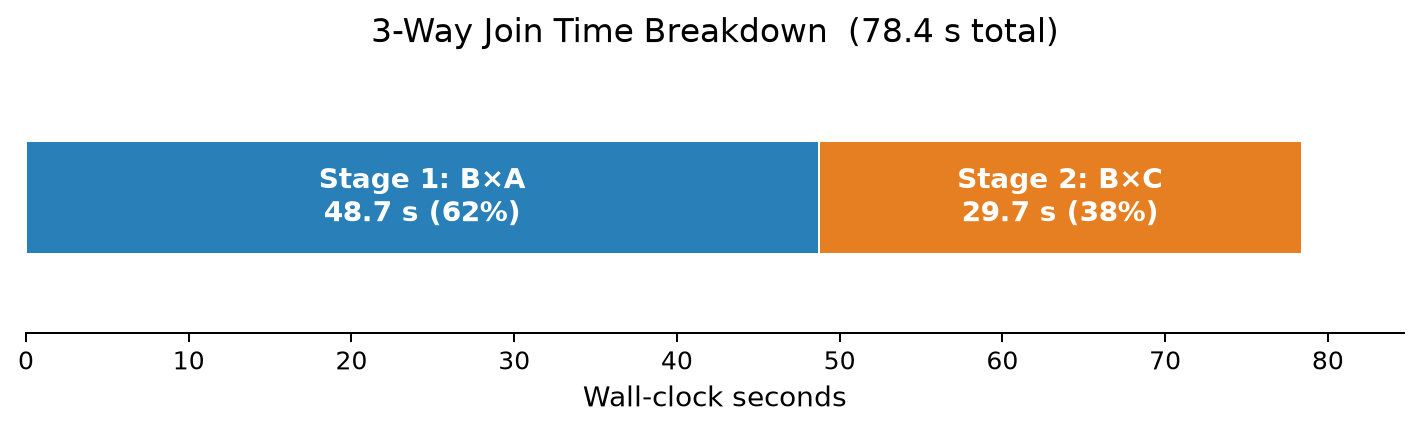
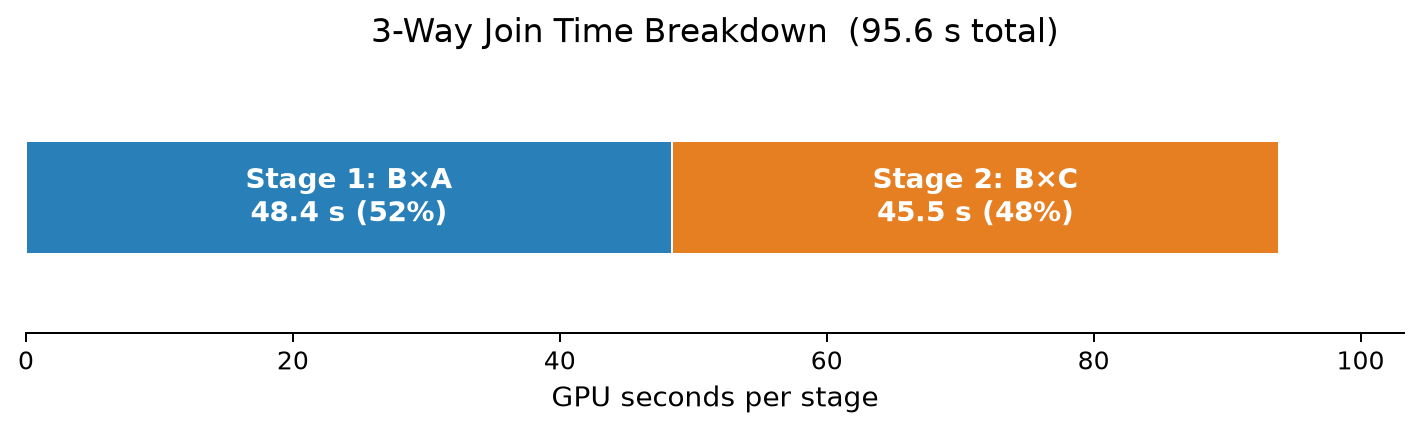
3-way plots on corrected numbers; add measured-vs-estimated-stock comparison
Query plan and time bar regenerate from the fixed run (48.4 + 45.5
GPU, 95.6 s wall, 991,911 triples). New figure compares the measured
staged join against two stock-vLLM estimates, arithmetic from
committed measurements only, both labeled estimated and never run:
request per pair grouped by B with prefix caching ~134 s (fresh
7.025M at the 2-way stock's measured 70.8k tok/s fresh rate, paged
reads, host ingestion, per-request fixed), and no prefix reuse ~923
s (80.33M full-prompt tokens through the fitted T_pre). Estimated
bars are gray and hatched; stage colors validated for
color-blindness separation.

Claude-Session: https://claude.ai/code/session_01CmQMk7TzKCiNyxUKHPVyYT

diff --git a/results/engine/join_plots.py b/results/engine/join_plots.py
@@ -63,7 +63,7 @@ def nway_query_plan():
     edge(3.5, 2.95, 3.5, 3.75)
     node(3.5, 4.2,
          f"Drop B with 0 matches\nrun each survivor once\n"
-         f"{survivors}/{n_b} B remain, keep KV",
+         f"{survivors}/{n_b} B remain, prefix KV cached",
          "#2c3e50", fontsize=9)
     time_label(5.3, 4.4, f"~0 s")
     time_label(5.3, 4.0,
@@ -73,7 +73,8 @@ def nway_query_plan():
     edge(3.5, 4.65, 5.0, 5.45)
     edge(8.0, 0.95, 5.0, 5.45)
     node(5.0, 5.9,
-         f"Packed Join\nB × C  (reuse KV)\n{r['stage2_pairs']:,} pairs",
+         f"Packed Join\nB × C  (reads cached KV)\n"
+         f"{r['stage2_pairs']:,} pairs",
          "#e67e22")
     time_label(6.9, 5.9, f"{s2:.1f} s")
 
@@ -136,8 +137,96 @@ def nway_time_bar():
     print(f"  join_nway3_time.png  ({s1:.1f} + {s2:.1f} = {total:.1f} s)")
 
 
+def nway_vs_stock():
+    """Measured staged join against two stock-vLLM estimates.
+
+    Both stock numbers are arithmetic from committed measurements -
+    never run. Submission strategy for both: one request per
+    (anchor, partner) pair, grouped by B document.
+
+    Estimate 1 - prefix caching on (all 100 B prefixes fit the
+    ~978k-token pool, so every prefix computes once):
+      fresh   7.025M tokens (368k prefix + 3.104M A + 3.553M C)
+              at 70.8k tok/s               -> 99.2 s
+              (70.8k = the 2-way stock's measured fresh rate:
+               433 s wall - 234 s host - 95 s reads over 7.36M)
+      reads   20,000 requests x 3,684 cached tokens x 125 ns -> 9.2 s
+      host    80.33M prompt tokens x (234 s / 770M)          -> 24.4 s
+      fixed   20,000 requests x 50.3 us                      -> 1.0 s
+                                                       total ~ 134 s
+
+    Estimate 2 - no prefix reuse (every request prefills its full
+    ~4k-token prompt):
+      fresh   80.33M tokens; per request T_pre(4,016) =
+              9.2 us/tok x 4,016 + 4.93e-10 x 4,016^2 = 44.9 ms
+              x 20,000                                  -> 898 s
+      host + fixed                                      -> 25.4 s
+                                                       total ~ 923 s
+    """
+    d = load("join_nway3.json")
+    r = d["result"]
+    s1, s2 = r["stage1_wall_s"], r["stage2_wall_s"]
+    total = r["total_wall_s"]
+    tails = round(total - s1 - s2, 1)
+
+    est_cached = 134
+    est_naive = 923
+
+    fig, ax = plt.subplots(figsize=(9, 3.8))
+    ink, muted = "#2c3e50", "#7f8c8d"
+
+    labels = [
+        "Quail staged join\n(measured)",
+        "Stock vLLM, prefix caching\n(estimated — never run)",
+        "Stock vLLM, no prefix reuse\n(estimated — never run)",
+    ]
+    y = [0, 1, 2]
+
+    # measured bar: stage segments + readout tail, 2px white gaps
+    ax.barh(0, s1, height=0.55, left=0, color="#2980b9",
+            edgecolor="white", linewidth=2)
+    ax.barh(0, s2, height=0.55, left=s1, color="#e67e22",
+            edgecolor="white", linewidth=2)
+    ax.barh(0, tails, height=0.55, left=s1 + s2, color=ink,
+            edgecolor="white", linewidth=2)
+
+    # estimated bars: neutral gray + texture = "not a measurement"
+    ax.barh(1, est_cached, height=0.55, color="#aab4b8",
+            edgecolor="white", linewidth=2, hatch="//")
+    ax.barh(2, est_naive, height=0.55, color="#cdd4d6",
+            edgecolor="white", linewidth=2, hatch="//")
+
+    for yi, val, note in [
+            (0, total,
+             f"{total:.1f} s   (stage 1: {s1:.1f}  +  stage 2: {s2:.1f})"),
+            (1, est_cached, f"~{est_cached} s"),
+            (2, est_naive,
+             f"~{est_naive} s  ({est_naive/total:.0f}x)")]:
+        ax.text(val + 12, yi, note, ha="left", va="center",
+                fontsize=11, color=ink, fontweight="bold")
+
+    ax.set_yticks(y)
+    ax.set_yticklabels(labels, fontsize=10)
+    ax.invert_yaxis()
+    ax.set_xlabel("Seconds (10,000 + 10,000 pairs)", fontsize=11)
+    ax.set_xlim(0, est_naive * 1.14)
+    ax.set_title("3-Way Join: measured against estimated stock vLLM",
+                 fontsize=13, pad=10)
+    ax.spines["top"].set_visible(False)
+    ax.spines["right"].set_visible(False)
+    ax.spines["left"].set_visible(False)
+    ax.tick_params(left=False)
+    fig.tight_layout()
+    fig.savefig(HERE / "join_nway3_vs_stock.png", dpi=180,
+                bbox_inches="tight")
+    plt.close(fig)
+    print(f"  join_nway3_vs_stock.png  ({total:.1f} s measured vs "
+          f"~{est_cached} / ~{est_naive} s estimated)")
+
+
 if __name__ == "__main__":
     print("Generating join plots...")
     nway_query_plan()
     nway_time_bar()
+    nway_vs_stock()
     print("Done.")
